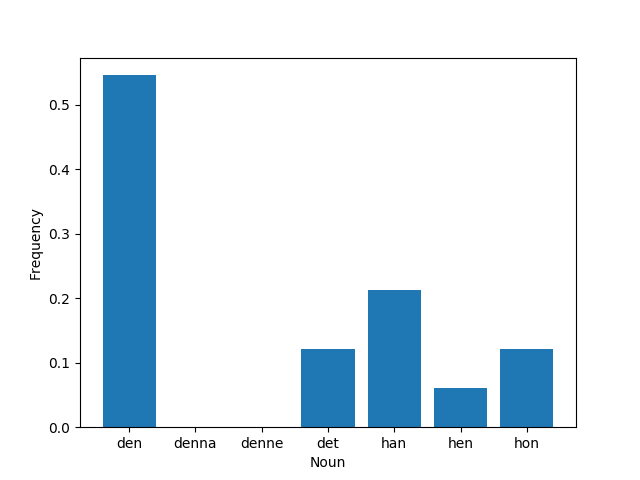
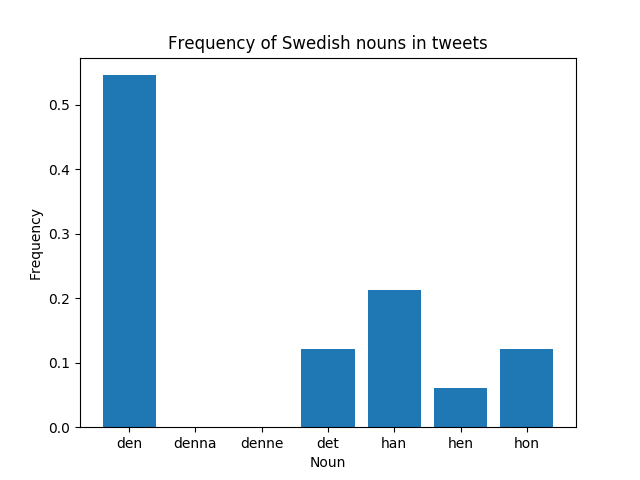
Added title to graphs

Changed region(s): [[0.25, 0.0625, 0.75, 0.125]]

diff --git a/Scripts/plot_from_wordcount.py b/Scripts/plot_from_wordcount.py
@@ -22,8 +22,9 @@ def main():
         Y[word] = array_characters[word].count
     fig = plt.figure('word_counts')
     plt.bar(X, Y)
-    plt.xlabel("Character starting word")
-    plt.ylabel("Counts")
+    plt.xlabel(f"Character starting word")
+    plt.ylabel(f"Counts")
+    plt.title(f"Counts of characters starting a word")
     fig.savefig('word_counts.png')
 
 

diff --git a/Scripts/reducer.py b/Scripts/reducer.py
@@ -15,6 +15,7 @@ def plot_normalized(dictionary, count):
     plt.bar(x, y)
     plt.xlabel(f"Noun")
     plt.ylabel(f"Frequency")
+    plt.title(f"Frequency of Swedish nouns in tweets")
     plt.savefig('noun_freq.png')
 
 
